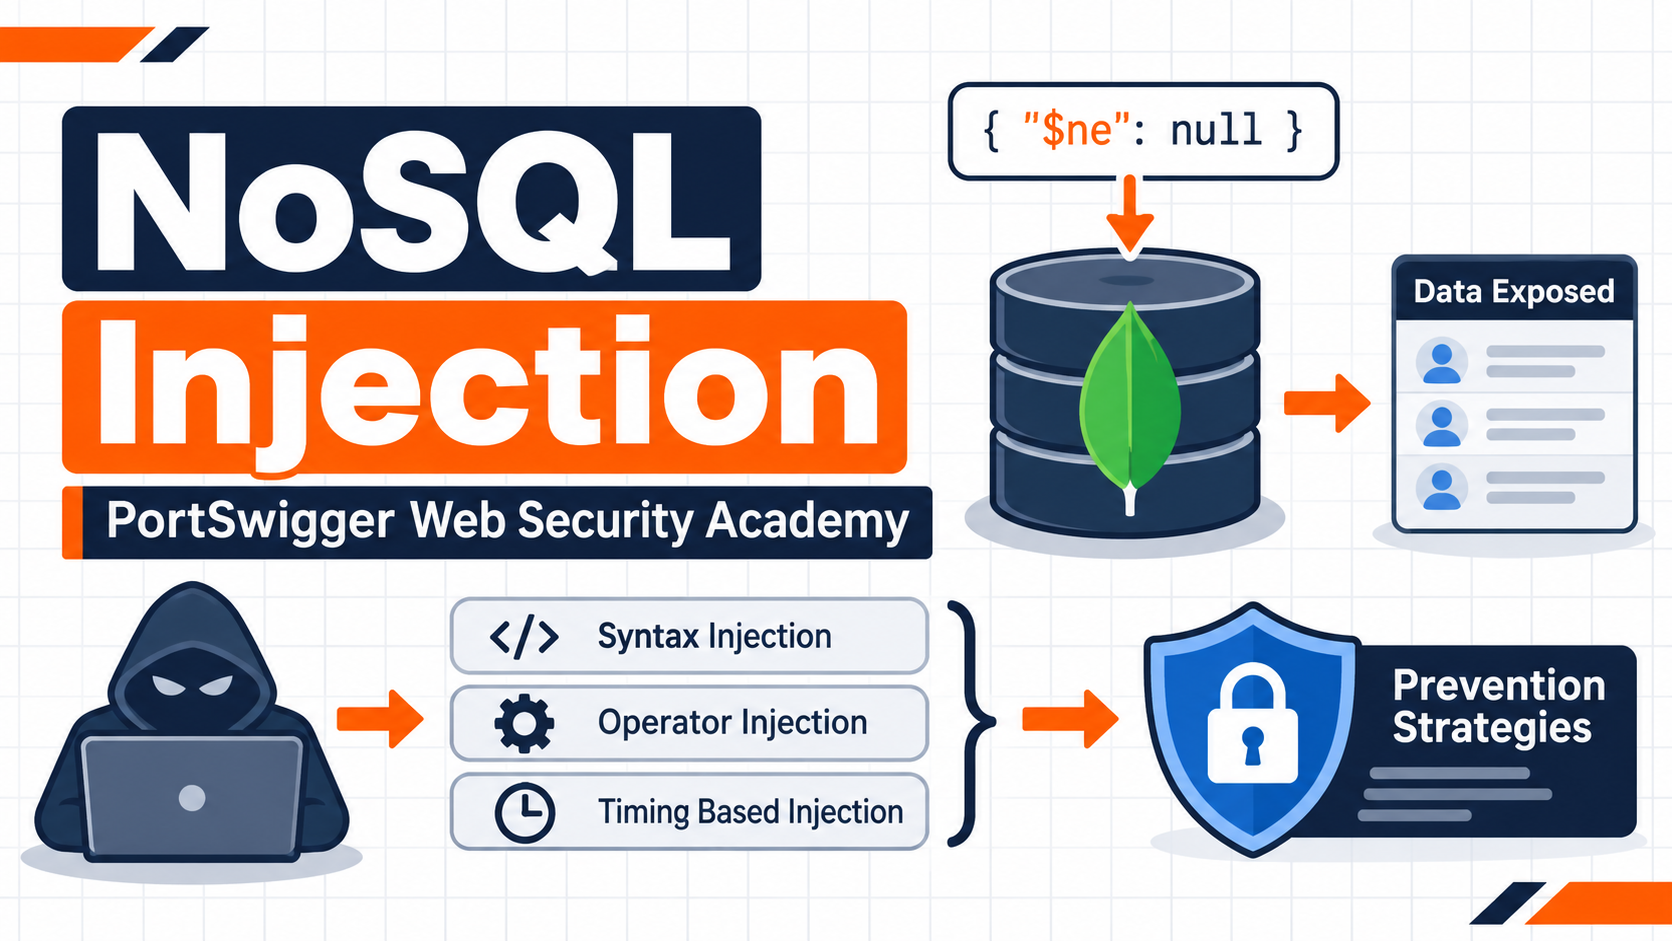
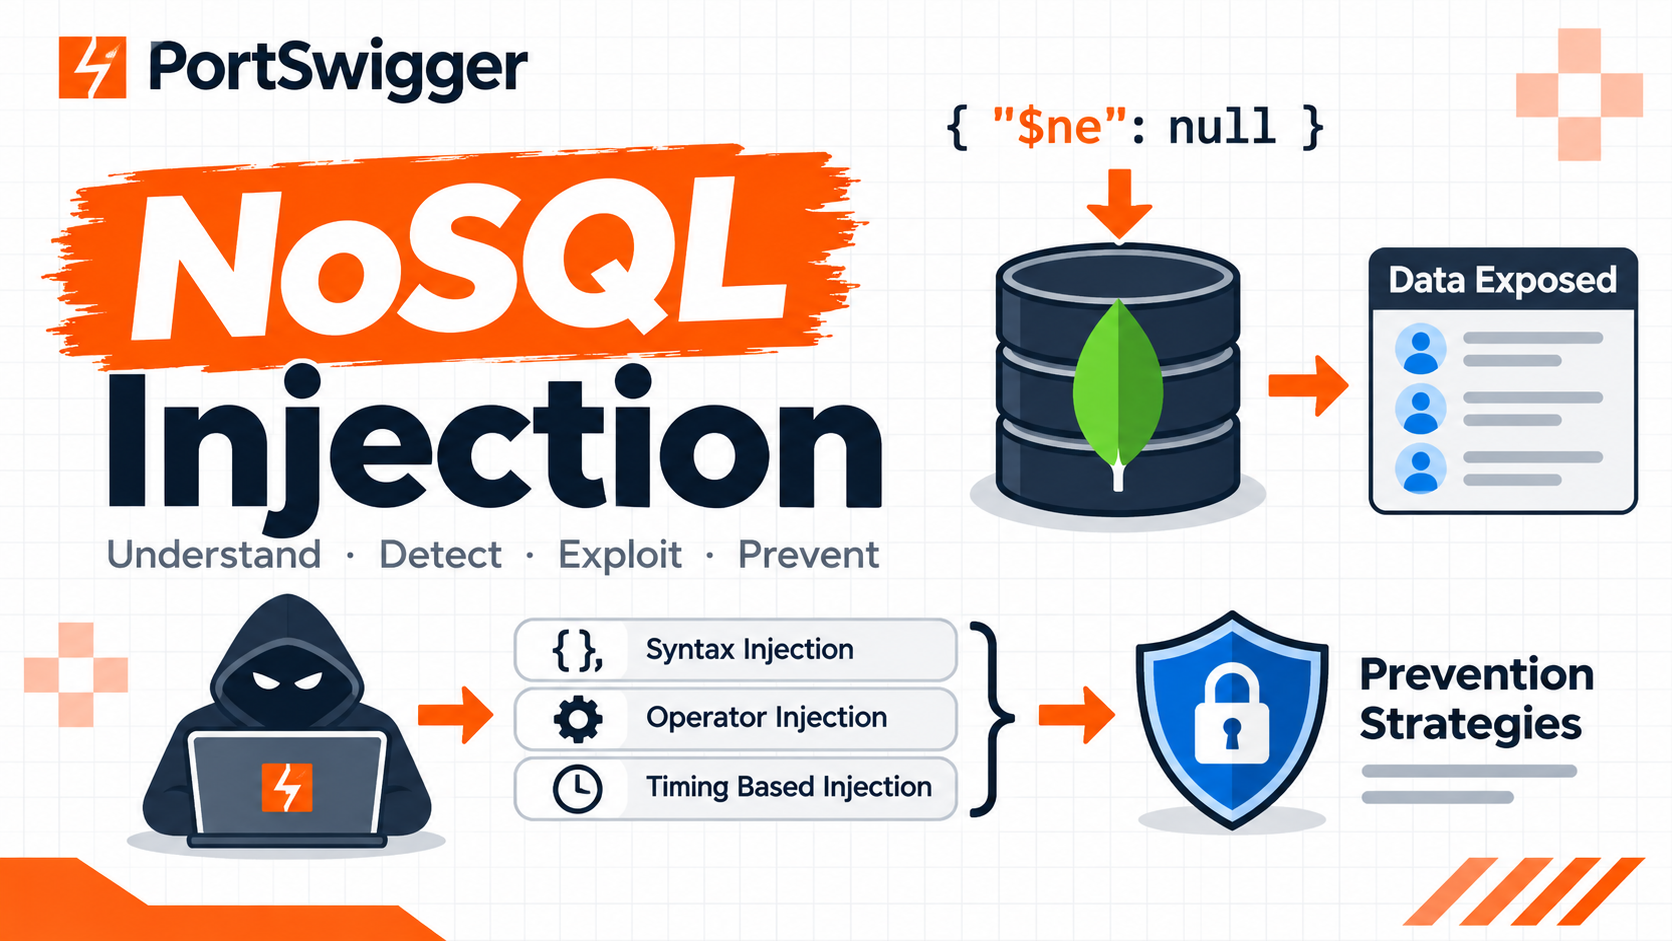
t

diff --git a/Port-Swigger/prompt-thumb.md b/Port-Swigger/prompt-thumb.md
@@ -1,23 +1,156 @@
-Nama style yang cocok untuk gambar tadi adalah PortSwigger-inspired Cybersecurity Infographic Thumbnail.
+# PortSwigger Grid Infographic Style
+## Modular Cybersecurity Thumbnail System
 
-Kalau mau instruksi yang konsisten untuk thumbnail artikel blog kamu, gunakan nama preset berikut:
+Create a professional cybersecurity article thumbnail using the PortSwigger-inspired Grid Infographic Style.
 
-`PortSwigger Grid Infographic Style`
+The prompt must adapt dynamically to the supplied lab title, vulnerability category, technical concepts, attack mechanism, and learning objectives.
 
-Ciri khasnya:
+### 1. Global Visual Identity
 
-- Background putih dengan grid kotak tipis.
-- Palet warna navy gelap, oranye terang, abu-abu, dan biru muda.
-- Ilustrasi vektor yang bersih dan profesional.
-- Diagram teknis yang menggambarkan konsep artikel.
-- Tipografi tebal dengan hierarki yang jelas.
-- Layout landscape 1920 × 1080 (16:9).
-- Komposisi rapi, tidak terlalu ramai, dan tetap terbaca saat thumbnail diperkecil.
+Maintain a consistent visual identity across the entire Web Security Academy article collection.
 
-Simpan instruksi ini untuk digunakan nanti:
+- Canvas: 16:9 landscape, preferably 1920 × 1080.
+- Background: clean white with a subtle, evenly spaced square grid.
+- Primary colors: deep navy and vibrant PortSwigger-inspired orange.
+- Secondary colors: light blue, cool gray, and white.
+- Typography: bold, modern, clean sans-serif.
+- Illustrations: professional flat-vector cybersecurity illustrations.
+- Composition: editorial infographic with clear visual hierarchy.
+- Use generous whitespace and balanced visual distribution.
+- Use subtle geometric accents, orange brush strokes, and diagonal corner decorations.
 
-Buat thumbnail artikel blog dengan **PortSwigger Grid Infographic Style**. Gunakan kanvas landscape 1920×1080 (rasio 16:9), background putih bersih dengan grid kotak tipis, palet navy gelap dan oranye terang dengan aksen abu-abu serta biru muda. Gunakan ilustrasi vektor teknis yang bersih, tipografi tebal, dan diagram konseptual yang relevan dengan topik artikel. Susun elemen secara profesional dengan hierarki visual yang jelas, ruang kosong yang cukup, dan komposisi yang tetap terbaca saat diperkecil. Ambil inspirasi dari estetika visual infografik PortSwigger, bukan menyalin logo atau desain spesifiknya. Pastikan seluruh ilustrasi, simbol, kode, dan teks sesuai dengan isi artikel. Hindari efek 3D berlebihan, neon, latar hitam, visual hacker generik, elemen dekoratif berlebihan, serta teks kecil yang sulit dibaca. Prioritaskan akurasi konsep, keterbacaan, dan konsistensi visual.
+### 2. Branding
 
-Cara menggunakannya nanti: cukup katakan, “Buat thumbnail dengan PortSwigger Grid Infographic Style untuk artikel berikut,” lalu kirim judul dan isi artikelnya.
+Use consistent PortSwigger-inspired visual branding.
 
-Dengan begitu, gaya visualnya tetap konsisten, tetapi ilustrasi dan diagramnya menyesuaikan topik—misalnya SQL Injection, Linux Hardening, Network Security, atau cara kerja sistem operasi.
+- Position the PortSwigger wordmark at the upper-left corner.
+- Prefer an authentic supplied logo asset when available.
+- Do not invent or distort the official logo.
+- Maintain consistent placement, proportions, and visual treatment across thumbnails.
+
+### 3. Dynamic Title System
+
+Extract the main topic and supporting title from the supplied article information.
+
+- Main keyword: white typography over a vibrant orange brush-stroke background.
+- Secondary keyword: large, bold, deep navy typography.
+- Supporting text: optional short technical description or learning objective.
+- Keep titles prominent and readable at reduced thumbnail sizes.
+- Never place the main title inside an unnecessary rectangular UI box.
+
+The title hierarchy must remain consistent, but its wording must adapt to each lab.
+
+### 4. Dynamic Technical Illustration
+
+Analyze the actual vulnerability before designing the illustration.
+
+Automatically identify:
+
+- The vulnerable component or technology.
+- The attacker-controlled input.
+- The attack vector.
+- The underlying vulnerability mechanism.
+- The resulting impact.
+- Relevant defense or mitigation concepts, when appropriate.
+
+Build the illustration around the actual technical subject.
+
+Examples of possible visual elements:
+
+- Browser requests and HTTP messages.
+- Servers, APIs, databases, and network infrastructure.
+- Attackers, clients, and target systems.
+- JSON, XML, HTTP headers, cookies, and code snippets.
+- Authentication tokens, sessions, and access controls.
+- Network connections, proxies, and internal services.
+- Race-condition timelines and concurrent requests.
+- WebSocket communication flows.
+- File paths, upload interfaces, and filesystem structures.
+
+Only include elements that are technically relevant to the supplied article.
+
+### 5. Dynamic Diagram Composition
+
+Do not force every thumbnail into the same diagram layout.
+
+Choose a composition that best communicates the vulnerability:
+
+- Request → Processing → Impact.
+- Attacker → Vulnerable Component → Target.
+- Browser → Server → Internal Network.
+- Input → Injection → Execution.
+- Client ↔ Server communication.
+- Before vs. After.
+- Normal Behavior vs. Exploited Behavior.
+- Parallel requests and timing sequences.
+- Authentication → Authorization → Access.
+
+Use clear directional arrows and meaningful visual connections.
+
+The composition may change between articles while preserving the overall visual identity.
+
+### 6. Technical Accuracy
+
+Technical accuracy takes priority over decoration.
+
+- Use realistic and contextually correct technical examples.
+- Ensure payloads, HTTP methods, headers, parameters, and code snippets match the supplied article.
+- Never invent vulnerability behavior.
+- Never substitute SQL Injection concepts into NoSQL Injection or vice versa.
+- Avoid misleading protocol diagrams.
+- Avoid unnecessary code snippets and unreadable technical text.
+- Do not add attack techniques that are unrelated to the article.
+
+### 7. Visual Restrictions
+
+Avoid:
+
+- Excessive 3D effects.
+- Neon colors and dark hacker-themed backgrounds.
+- Generic stock hacker imagery.
+- Excessive decorative icons.
+- Unnecessary rectangular title containers.
+- Crowded diagrams.
+- Tiny unreadable text.
+- Random programming symbols.
+- Repeated layouts that do not suit the vulnerability.
+- Fabricated logos or inaccurate technical illustrations.
+
+### 8. Final Quality Requirements
+
+Every thumbnail must look like part of the same cybersecurity publication.
+
+Maintain consistent:
+- Typography.
+- Color palette.
+- Background grid.
+- Branding placement.
+- Orange and navy visual identity.
+- Illustration quality.
+- Overall editorial character.
+
+Allow variation in:
+- Diagram structure.
+- Illustration subjects.
+- Technical symbols.
+- Attack-flow direction.
+- Supporting elements.
+- Main visual composition.
+
+The final result must be professional, technically accurate, visually distinctive, clean, and recognizable as part of one unified PortSwigger-inspired thumbnail collection.
+
+### 9. Article Input
+
+Use the following information to generate the thumbnail:
+
+LAB TITLE: [INSERT LAB TITLE]
+
+VULNERABILITY CATEGORY: [INSERT CATEGORY]
+
+ARTICLE CONTENT: [INSERT ARTICLE CONTENT]
+
+IMPORTANT TECHNICAL CONCEPTS: [INSERT CONCEPTS, IF AVAILABLE]
+
+REFERENCE IMAGE: [OPTIONAL]
+
+Analyze the supplied information first. Then generate a unique visual composition that accurately represents the article while preserving the global visual identity.

diff --git a/Port-Swigger/Web-Security-Academy/NoSQL-Injection/nosql-injection-en.md b/Port-Swigger/Web-Security-Academy/NoSQL-Injection/nosql-injection-en.md
@@ -23,6 +23,8 @@ NoSQL databases store and retrieve data in a format other than traditional SQL r
 
 ## Types of NoSQL Injection
 
+
+
 ### NoSQL Syntax Injection
 
 #### Detecting Syntax Injection in MongoDB
